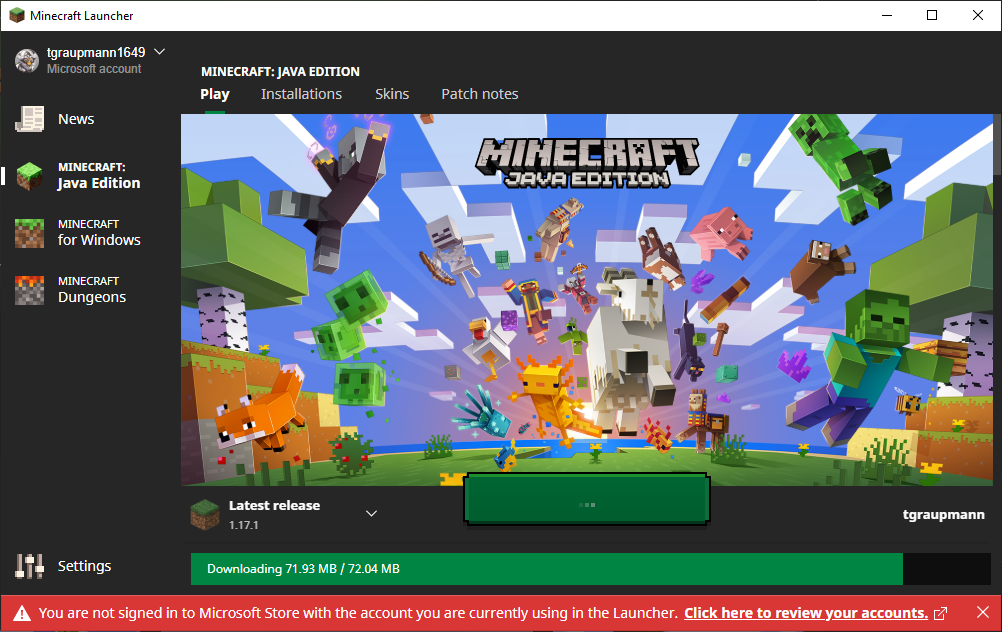
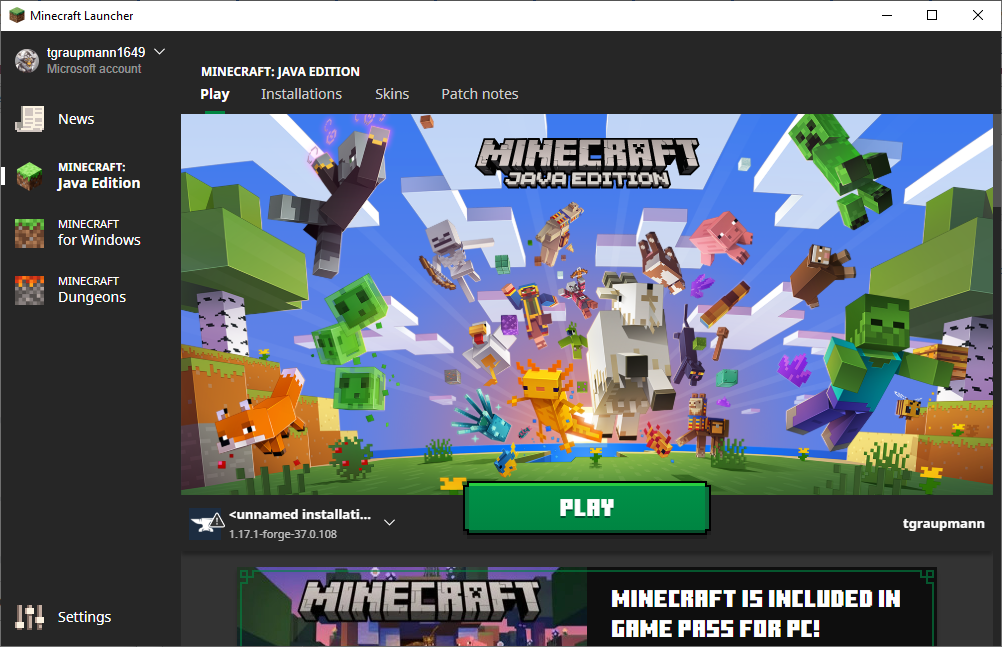
Updated screenshot

diff --git a/README.md b/README.md
@@ -44,6 +44,8 @@ This Mod is built with [MinecraftForge](https://minecraftforge.net) and displays
 
 * You may need to migrate your account to a Microsoft Account in order to update the launcher to install 1.17.1.
 
+* Use the Minecraft launcher to use the Minecraft Java Edition
+
 ![image_22](images/image_22.png)
 
 * Visit the [Releases Section](https://github.com/tgraupmann/MinecraftChromaMod/releases) to run the installers.
